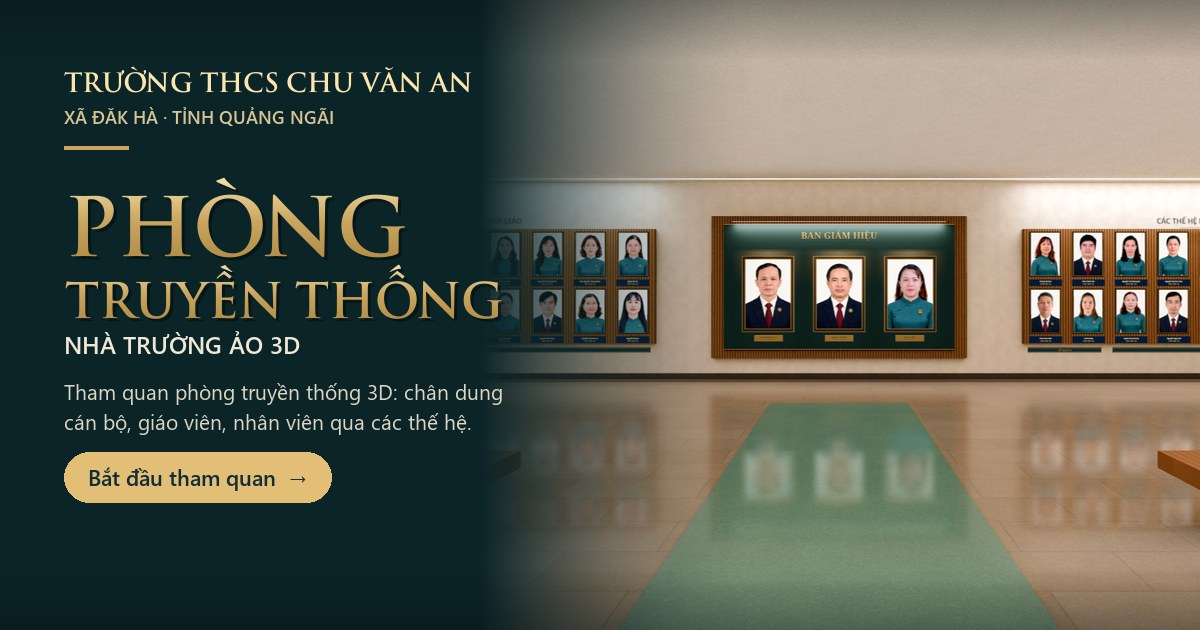
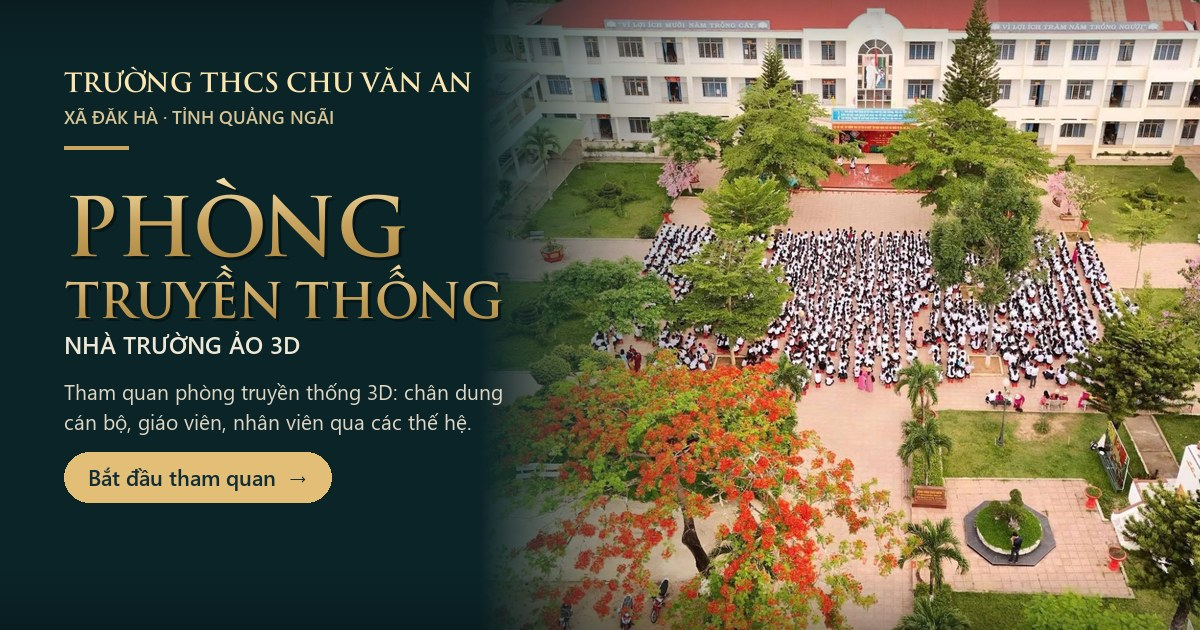
Ảnh chia sẻ Zalo/Facebook: nền ảnh sân trường thay ảnh phòng 3D

diff --git a/index.html b/index.html
@@ -1,2 +1,2 @@
-<!doctype html><html lang="vi"><head><meta charset="UTF-8"><meta name="viewport" content="width=device-width,initial-scale=1"><meta name="theme-color" content="#0e2546"><link rel="icon" type="image/svg+xml" href="%BASE_URL%favicon.svg"><link rel="apple-touch-icon" href="%BASE_URL%icons/apple-touch-icon-180.png"><meta name="apple-mobile-web-app-capable" content="yes"><meta name="mobile-web-app-capable" content="yes"><meta name="apple-mobile-web-app-status-bar-style" content="black-translucent"><meta name="apple-mobile-web-app-title" content="Phòng truyền thống"><meta name="description" content="Tham quan phòng truyền thống 3D: chân dung cán bộ, giáo viên, nhân viên qua các thế hệ — Trường THCS Chu Văn An, xã Đăk Hà, tỉnh Quảng Ngãi."><title>Phòng truyền thống 3D · Trường THCS Chu Văn An</title><!-- 17/11: thẻ chia sẻ (Zalo, Facebook, Messenger đọc Open Graph). Đổi ảnh → đổi ?v= để Zalo/Facebook lấy ảnh mới. --><link rel="canonical" href="https://mrbin2026dh-droid.github.io/phongtruyenthong/"><meta property="og:type" content="website"><meta property="og:locale" content="vi_VN"><meta property="og:site_name" content="Phòng truyền thống Trường THCS Chu Văn An"><meta property="og:title" content="Phòng truyền thống 3D · Trường THCS Chu Văn An"><meta property="og:description" content="Tham quan phòng truyền thống 3D: chân dung cán bộ, giáo viên, nhân viên qua các thế hệ — Trường THCS Chu Văn An, xã Đăk Hà, tỉnh Quảng Ngãi."><meta property="og:url" content="https://mrbin2026dh-droid.github.io/phongtruyenthong/"><meta property="og:image" content="https://mrbin2026dh-droid.github.io/phongtruyenthong/og/chia-se.jpg?v=20261117"><meta property="og:image:secure_url" content="https://mrbin2026dh-droid.github.io/phongtruyenthong/og/chia-se.jpg?v=20261117"><meta property="og:image:type" content="image/jpeg"><meta property="og:image:width" content="1200"><meta property="og:image:height" content="630"><meta property="og:image:alt" content="Phòng truyền thống 3D Trường THCS Chu Văn An — tường Ban Giám hiệu và chân dung giáo viên"><meta name="twitter:card" content="summary_large_image"><meta name="twitter:image" content="https://mrbin2026dh-droid.github.io/phongtruyenthong/og/chia-se.jpg?v=20261117"></head><body><div id="root"></div><script type="module" src="/src/main.tsx"></script></body></html>
+<!doctype html><html lang="vi"><head><meta charset="UTF-8"><meta name="viewport" content="width=device-width,initial-scale=1"><meta name="theme-color" content="#0e2546"><link rel="icon" type="image/svg+xml" href="%BASE_URL%favicon.svg"><link rel="apple-touch-icon" href="%BASE_URL%icons/apple-touch-icon-180.png"><meta name="apple-mobile-web-app-capable" content="yes"><meta name="mobile-web-app-capable" content="yes"><meta name="apple-mobile-web-app-status-bar-style" content="black-translucent"><meta name="apple-mobile-web-app-title" content="Phòng truyền thống"><meta name="description" content="Tham quan phòng truyền thống 3D: chân dung cán bộ, giáo viên, nhân viên qua các thế hệ — Trường THCS Chu Văn An, xã Đăk Hà, tỉnh Quảng Ngãi."><title>Phòng truyền thống 3D · Trường THCS Chu Văn An</title><!-- 17/11: thẻ chia sẻ (Zalo, Facebook, Messenger đọc Open Graph). Đổi ảnh → đổi ?v= để Zalo/Facebook lấy ảnh mới. --><link rel="canonical" href="https://mrbin2026dh-droid.github.io/phongtruyenthong/"><meta property="og:type" content="website"><meta property="og:locale" content="vi_VN"><meta property="og:site_name" content="Phòng truyền thống Trường THCS Chu Văn An"><meta property="og:title" content="Phòng truyền thống 3D · Trường THCS Chu Văn An"><meta property="og:description" content="Tham quan phòng truyền thống 3D: chân dung cán bộ, giáo viên, nhân viên qua các thế hệ — Trường THCS Chu Văn An, xã Đăk Hà, tỉnh Quảng Ngãi."><meta property="og:url" content="https://mrbin2026dh-droid.github.io/phongtruyenthong/"><meta property="og:image" content="https://mrbin2026dh-droid.github.io/phongtruyenthong/og/chia-se.jpg?v=20261117"><meta property="og:image:secure_url" content="https://mrbin2026dh-droid.github.io/phongtruyenthong/og/chia-se.jpg?v=20261117"><meta property="og:image:type" content="image/jpeg"><meta property="og:image:width" content="1200"><meta property="og:image:height" content="630"><meta property="og:image:alt" content="Sân trường THCS Chu Văn An nhìn từ trên cao — Phòng truyền thống 3D"><meta name="twitter:card" content="summary_large_image"><meta name="twitter:image" content="https://mrbin2026dh-droid.github.io/phongtruyenthong/og/chia-se.jpg?v=20261117"></head><body><div id="root"></div><script type="module" src="/src/main.tsx"></script></body></html>
 

diff --git a/scripts/make-share-image.py b/scripts/make-share-image.py
@@ -9,6 +9,8 @@ from PIL import Image, ImageDraw, ImageFilter, ImageFont
 
 HERE = os.path.dirname(os.path.abspath(__file__)); WEB = os.path.dirname(HERE)
 SRC = sys.argv[1]
+# 17/11: ảnh nền có thể là ảnh phòng 3D (mặc định: phóng 1,22 lần, bỏ bớt trần) hoặc ảnh sân trường: --san-truong (giữ trọn khung)
+YARD = '--san-truong' in sys.argv
 OUT = os.path.join(WEB, 'public', 'og'); os.makedirs(OUT, exist_ok=True)
 UF = os.path.expanduser('~/AppData/Local/Microsoft/Windows/Fonts'); WF = 'C:/Windows/Fonts'
 def font(path, size): return ImageFont.truetype(path, size)
@@ -19,9 +21,9 @@ TEAL, GOLD, GOLD_L, CREAM = (11, 36, 40), (201, 165, 96), (251, 230, 176), (240,
 
 # hall photo on the right 70 %, scaled to cover, aisle (centre of the shot) at ~66 % of the card
 hall = Image.open(SRC).convert('RGB')
-s = max(W * .80 / hall.width, H * 1.22 / hall.height); hall = hall.resize((round(hall.width * s), round(hall.height * s)), Image.LANCZOS)   # less ceiling, portraits larger
+s = max(W * .80 / hall.width, H * (1.0 if YARD else 1.22) / hall.height); hall = hall.resize((round(hall.width * s), round(hall.height * s)), Image.LANCZOS)   # less ceiling, portraits larger
 card = Image.new('RGB', (W, H), TEAL)
-x0 = round(W * .70 - hall.width / 2); y0 = round(-H * .14)
+x0 = round(W * .70 - hall.width / 2); y0 = 0 if YARD else round(-H * .14)
 card.paste(hall, (x0, y0))
 # left fade: solid teal under the text, dissolving into the photo
 fade = Image.new('L', (W, H), 0); fd = ImageDraw.Draw(fade)
